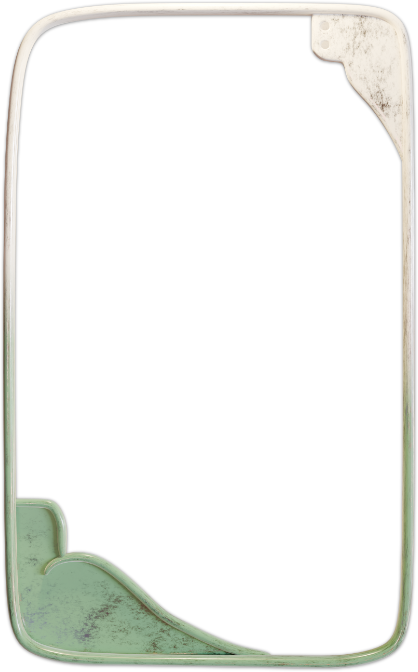
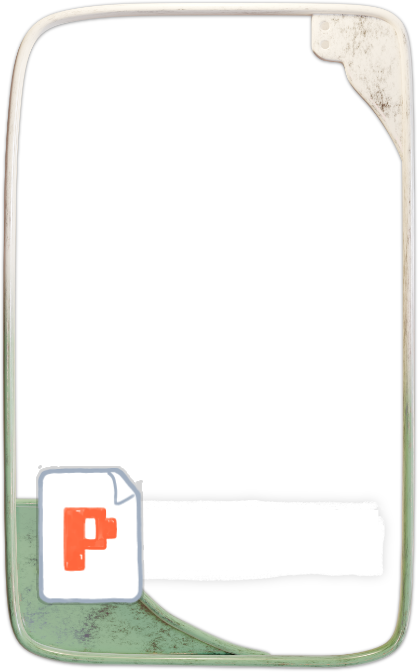
Add download prompt to resume hover states

Changed region(s): [[0.0622, 0.6875, 0.3421, 0.9062]]

diff --git a/_includes/styles/components/featured-icons-list.css b/_includes/styles/components/featured-icons-list.css
@@ -21,6 +21,18 @@
     transition: transform 0.2s cubic-bezier(0.32, 0, 0.67, 0);
 }
 
+.featured-listing .prompt-text {
+    position: absolute;
+    bottom: 16.5%;
+    left: 38%;
+    z-index: 10;
+    font-size: 1.375em;
+    font-weight: var(--font-bold);
+    color: var(--accent-1-dark);
+    opacity: 0;
+    transition: opacity 0.2s cubic-bezier(0.34, 1.56, 0.64, 1);
+}
+
 .featured-listing figure:after {
     content: '';
     position: absolute;
@@ -40,6 +52,10 @@
 .featured-listing:hover {
     transform: translate(0px, -1em);
     transition: transform 0.25s cubic-bezier(.21, 1.5, .64, 1);
+}
+
+.featured-listing:hover .prompt-text {
+    opacity: 1;
 }
 
 .featured-listing:hover figure:after {

diff --git a/_includes/styles/root-properties.css b/_includes/styles/root-properties.css
@@ -5,6 +5,7 @@
     --neutral-4: #938f8c;
     --accent-0: #ffaaaa;
     --accent-1: #9fb1ff;
+    --accent-1-dark: #667a94;
 
     --neutral-0-glass: rgb(252, 248, 244, 0.7);
 

diff --git a/resume-cv.md b/resume-cv.md
@@ -15,6 +15,6 @@ resumes:
     file: naomi-rubin_cv-resume_translation202411.pdf
 ---
 
-I've worked across multiple fields, so I maintain a few different résumé documents depending on the job area. Feel free to [email](mailto:hi@naomi.computer?subject=Naomi%20Rubin:%20naomi.computer%20Website%20Contact) if you need any more info about these!
+I've worked across multiple fields, so I maintain a few different résumé documents depending on the job area. Click to download whichever ones apply, and feel free to [email](mailto:hi@naomi.computer?subject=Naomi%20Rubin:%20naomi.computer%20Website%20Contact) if you need any more info about these!
 
 **Updated November, 2024**
